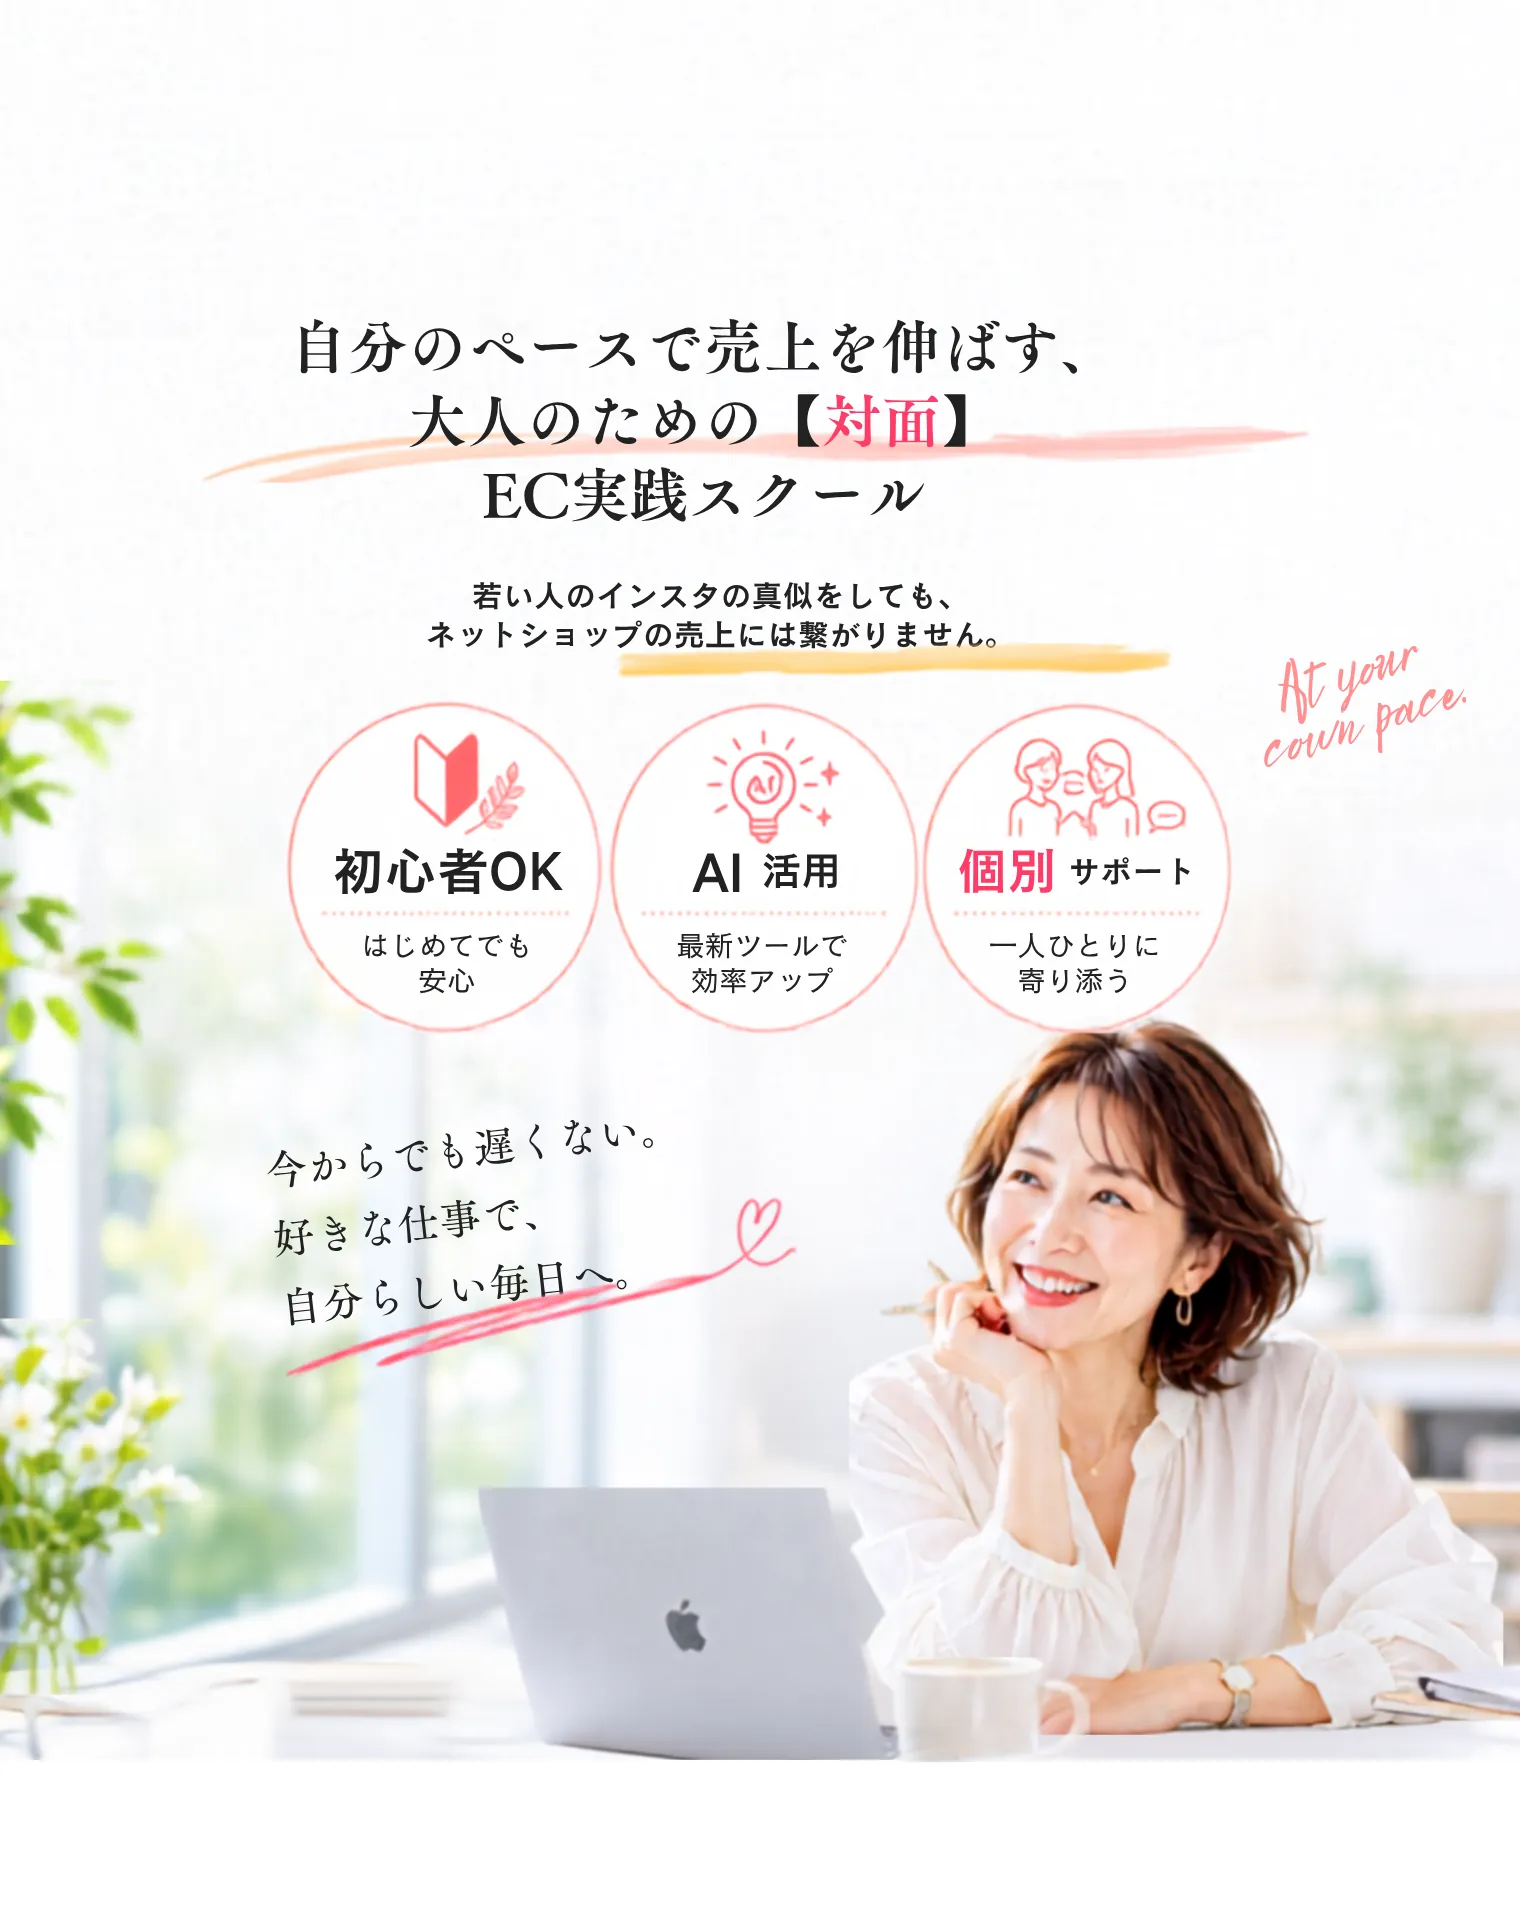
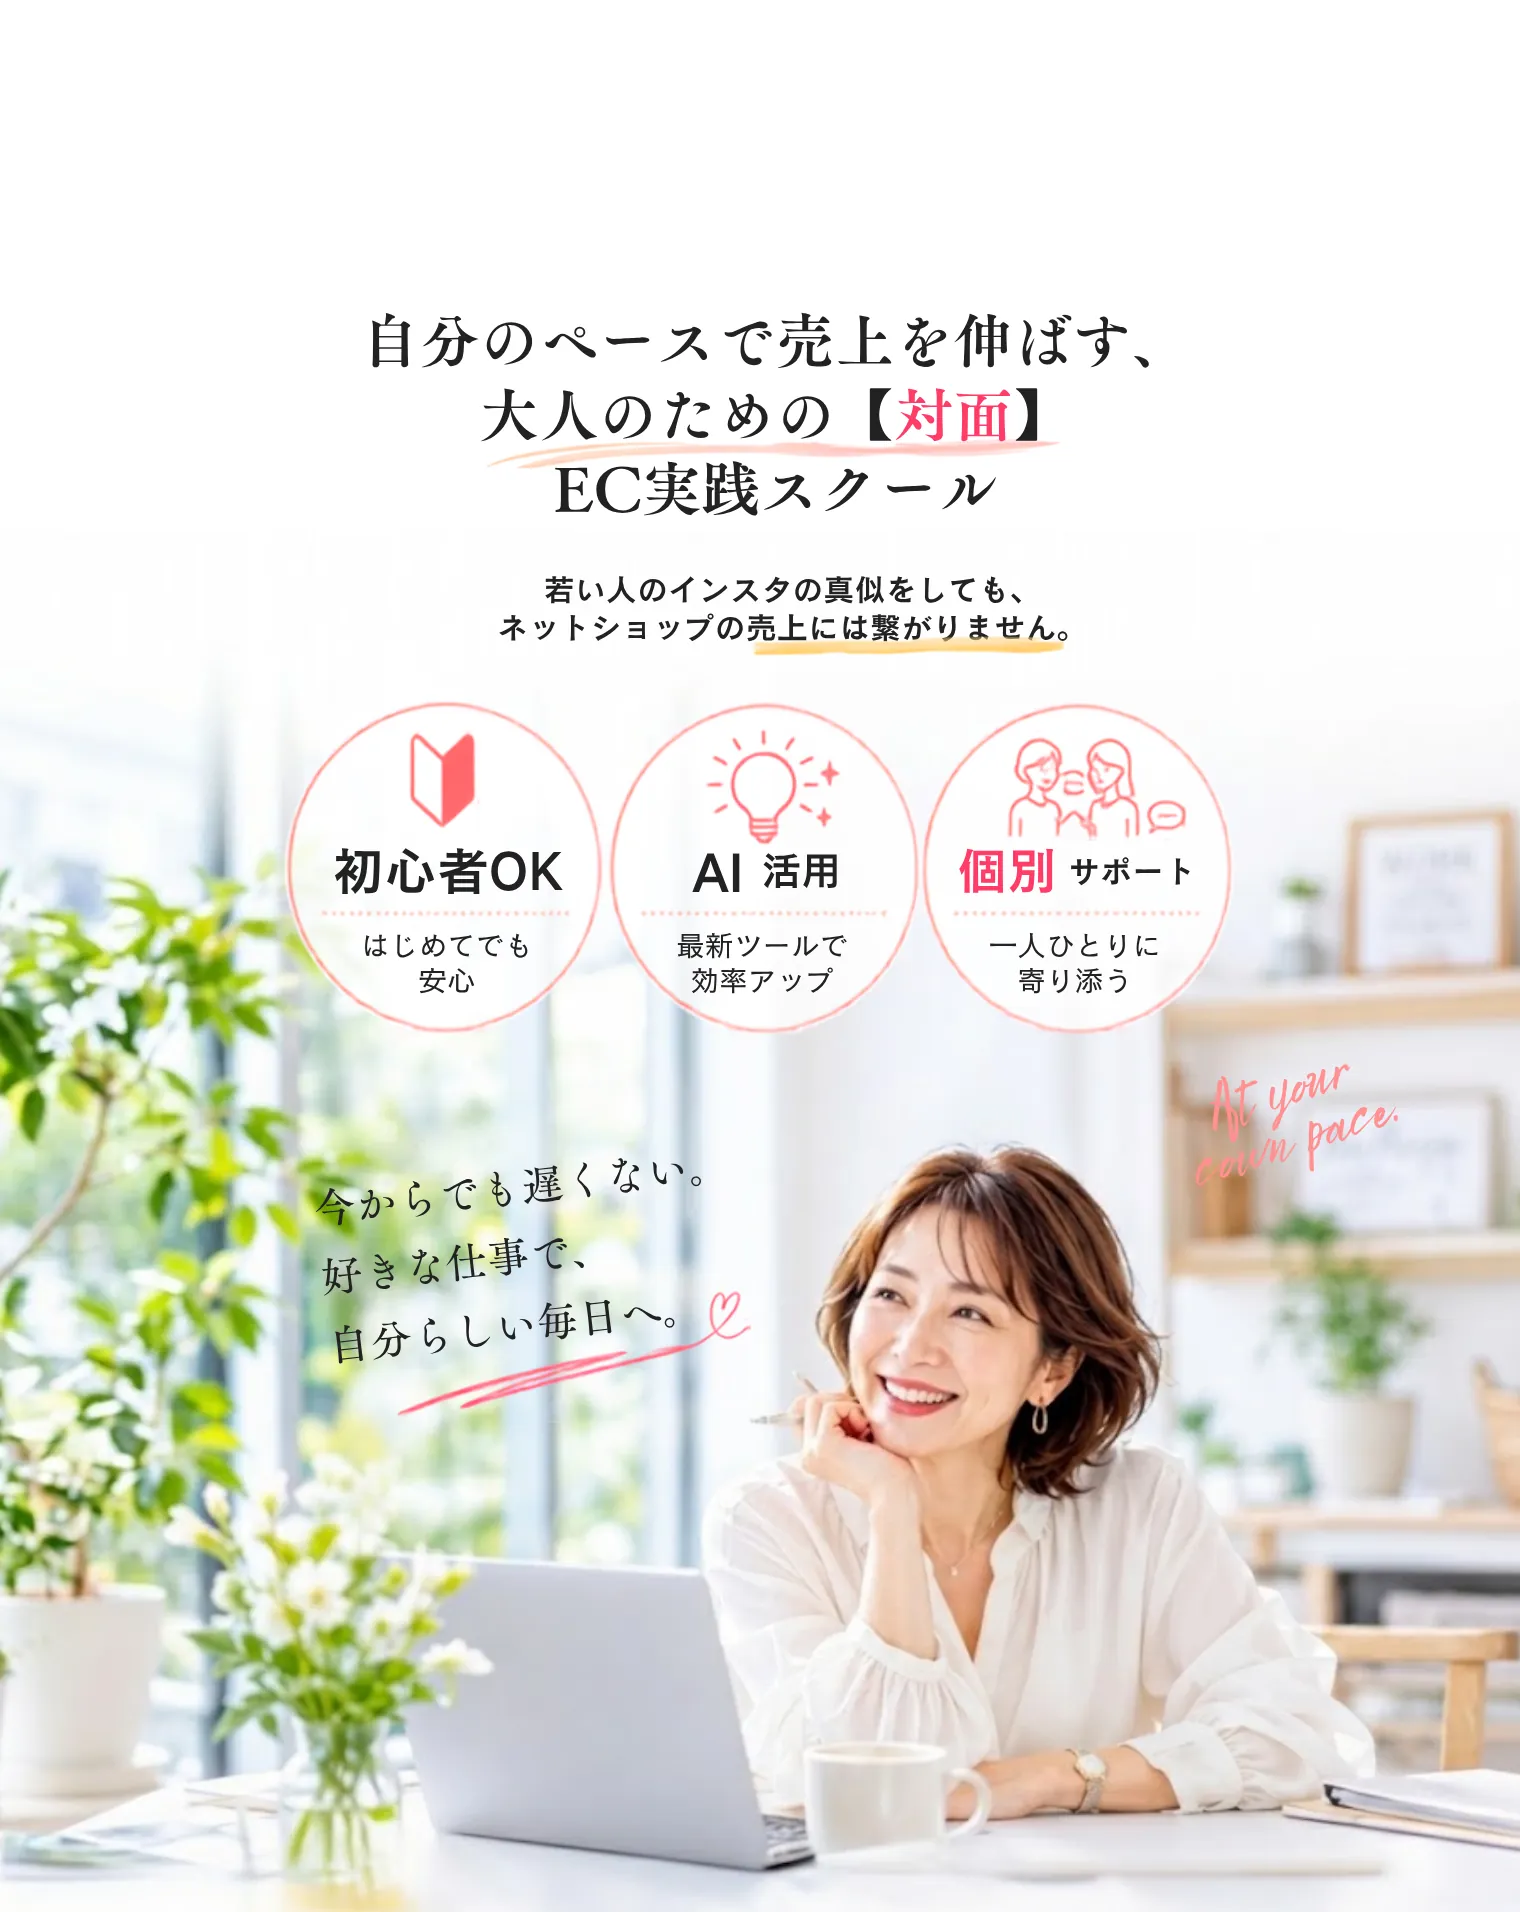
Update hero images and re-tune crop/CTA offsets for new dimensions
- Replace hero-complete-sp/pc source images (new photo, Apple logo no
  longer visible on the laptop lid) and regenerate jpg/webp.
- SP image grew from 960x1568 to 960x1950 (more blank space at the
  bottom); PC image keeps 1520x1912 but the photo now runs to the very
  bottom edge instead of leaving a white margin.
- section-hero.css: update the SP aspect-ratio and bottom crop
  (-3% -> -24%) to match the taller image; set PC bottom crop to 0
  (was -3%, which would now cut into the photo/desk). Re-tune the CTA
  pull-up for both breakpoints (SP -86px -> -46px, PC -104px -> -12px)
  so the button sits just below the photo instead of overlapping it or
  leaving a large gap.

diff --git a/css/section-hero.css b/css/section-hero.css
@@ -1,6 +1,6 @@
 /* ==========================================================================
    section-hero.css  —  セクション1：ヘッダー＋ファーストビュー
-   方式：完成画像1枚（スマホ用 960×1568 / PC用 1520×1912）を表示し、その上に
+   方式：完成画像1枚（スマホ用 960×1950 / PC用 1520×1912）を表示し、その上に
         ・サブキャッチ「50代・60代が輝く…」＋オレンジ下線
         ・ブランド行「Instagram × EC × AI」
         を画像の直前に、CTAボタンを画像の直後に、HTML/CSSで配置する
@@ -67,20 +67,20 @@
   display: block;
   width: 100%;
   height: auto;
-  aspect-ratio: 960 / 1568; /* スマホ用画像の比率（読込前のガタつき防止） */
+  aspect-ratio: 960 / 1950; /* スマホ用画像の比率（読込前のガタつき防止） */
   object-fit: cover;
   margin-top: -19%;
-  margin-bottom: -3%;
+  /* スマホ用画像は下部に余白（テーブル下の余白）が大きいので、その分を多めに詰める */
+  margin-bottom: -24%;
 }
 
 /* ---------- CTAボタン ----------
-   画像下端のホワイト（テーブル面）に少し重ねる。負マージンでフロー内のまま
-   引き上げているので、hero の高さ・次セクションの位置はズレない。
-   重ね量はここの margin-top だけで調整できる。 */
+   画像下端のホワイトに少し重ねる。負マージンでフロー内のまま引き上げているので、
+   hero の高さ・次セクションの位置はズレない。重ね量はここの margin-top だけで調整できる。 */
 .hero__cta-wrap {
   position: relative;
   z-index: 1;
-  margin-top: -86px;
+  margin-top: -46px;
   padding: 0 18px 18px;
 }
 
@@ -118,6 +118,8 @@
   .hero__img {
     aspect-ratio: 1520 / 1912;
     margin-top: -17%;
+    /* PC用画像は写真がほぼ画像の下端まで続くので、下は詰めない（詰めると人物/机が切れる） */
+    margin-bottom: 0;
   }
 
   .hero__eyebrow {
@@ -134,7 +136,8 @@
 
   .hero__cta-wrap {
     max-width: 420px;
-    margin: -104px auto 0;
+    /* PC画像は下端まで写真なので、ほぼフローどおり。ごく少しだけ詰める */
+    margin: -12px auto 0;
   }
 }
 

diff --git a/index.html b/index.html
@@ -60,7 +60,7 @@
     <source type="image/webp" media="(min-width: 768px)" srcset="assets/hero/hero-complete-pc.webp">
     <source type="image/jpeg" media="(min-width: 768px)" srcset="assets/hero/hero-complete-pc.jpg">
     <source type="image/webp" srcset="assets/hero/hero-complete-sp.webp">
-    <img class="hero__img" src="assets/hero/hero-complete-sp.jpg" width="960" height="1568"
+    <img class="hero__img" src="assets/hero/hero-complete-sp.jpg" width="960" height="1950"
          alt="ノートパソコンの前で微笑む女性。Instagram×EC×AIを学ぶ、大人のための対面EC実践スクール">
   </picture>
 
